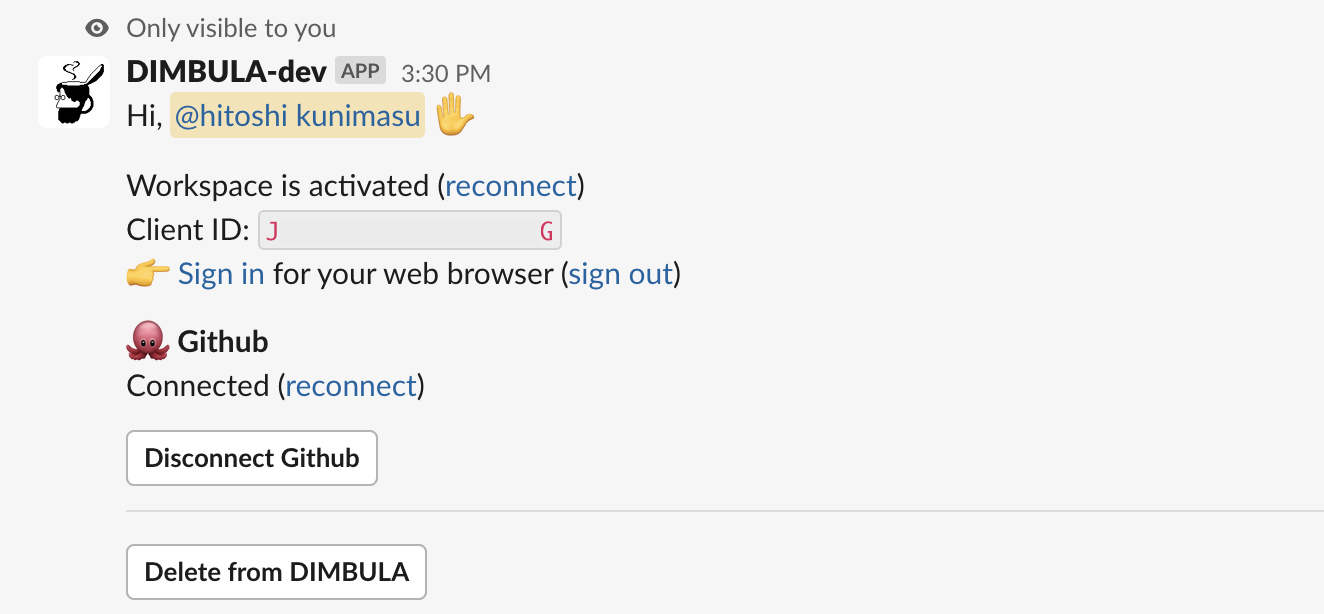
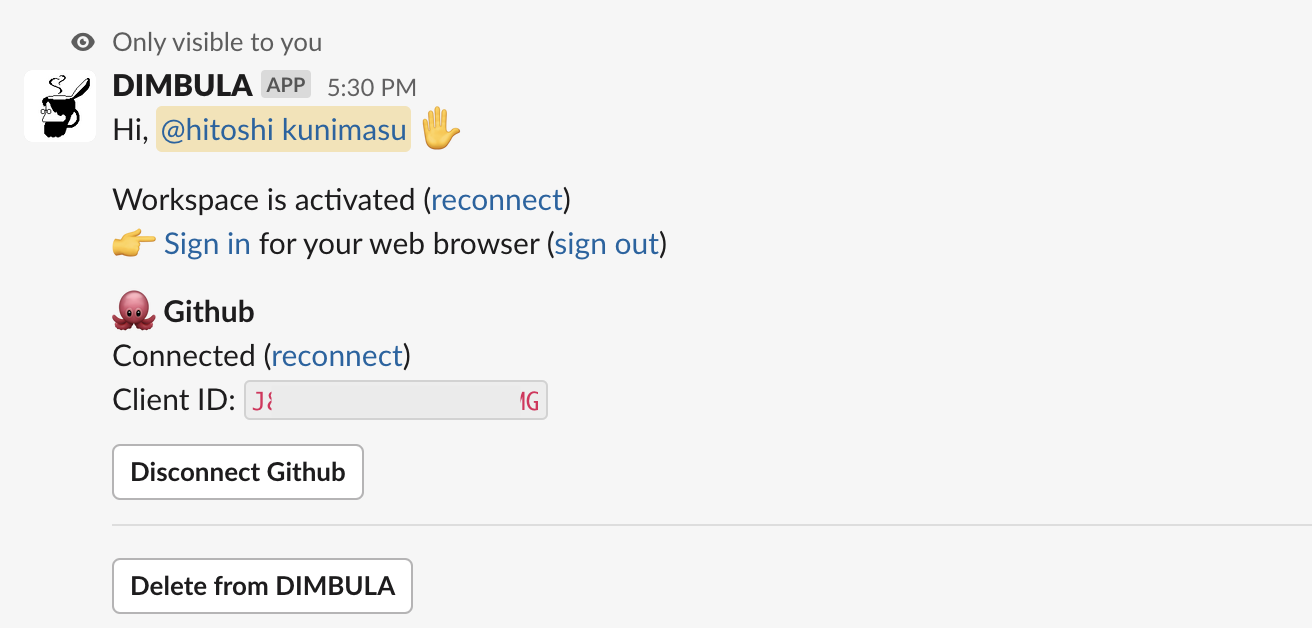
Github subscribeに関して仕様変更したのでその修正etc

diff --git a/pages/ja/docs/receive_notification.md b/pages/ja/docs/receive_notification.md
@@ -1,28 +1,14 @@
 # 通知を受け取る
 DIMBULA teaBreakでは、E2Eテストの終了時や、Github Checks更新時に、講読されたSlackチャンネルに通知してお知らせします。
 
-通知を受け取る設定をしていなくても、DIMBULA teaBreakは機能しますが、テストが終了したことに気付かないといったことが起きますので、ここでは講読する方法を紹介します。
+通知を受け取る設定をしていなくても、DIMBULA teaBreakは機能しますが、テストが終了したことに気付かないといったことが起きますので、登録しておく方が良いでしょう。
 
-# Githubアカウントを接続する
-DIMBULA teaBreakのE2Eテスト終了時に受け取りたい対象リポジトリと、通知先となるSlackチャンネルを登録するコマンドは、`/dimbula subscribe`で行います。
+# セットアップ
+通知を受信したいチャンネルで、`/dimbula subscribe <GithubリポジトリURL>`を入力して、通知を受けたいDIMBULA teaBreakの対象リポジトリを指定します。
+![img.png](../../../assets/image/dimbula_subscribe_url.png)
 
-対象リポジトリを選択肢として表示するために、`/dimbula me`からGithubのアカウント接続を先に行う必要があります。Githubの下にある`connect`もしくは一度接続済みなら`reconnect`をクリックして、リンクをWebブラウザで表示します。
-![dimbula_me_not_github.png](../../../assets/image/dimbula_me_not_github.png)
-
-Webブラウザに以下のような表示がされれば、接続完了です。
-![dimbula_me_not_github.png](../../../assets/image/github_connected.png)
-
-# 講読する
-通知を受信したいチャンネルで、`/dimbula subscribe`を送信すると、モーダル表示で講読したいリポジトリが選択肢として現れます。
-
-接続したGithubアカウントの個人と所属する組織に、DIMBULAのGithubアプリがインストールされていれば、以下のように複数のリポジトリが候補になります。一度の検索では100件が最大の候補数になりますので、もし候補に現れてないリポジトリを選択したい場合は、`/dimbula subscribe <リポジトリのURL>`もしくは `/dimbula subscribe <リポジトリ所有者> <リポジトリ名>`で送信すると、対象を絞って登録できます。
-![dimbula_me_not_github.png](../../../assets/image/dimbula_subscribe_modal.png)
-
-以下を送信すると、1つに絞れた状態でモーダルを表示することが出来ます。
-* `/dimbula-dev subscribe https://github.com/DIMBULA-dev/dimbula.github.io` 
-* `/dimbula-dev subscribe DIMBULA-dev dimbula.github.io`
-
-![dimbula_me_not_github.png](../../../assets/image/dimbula_subscribe_modal2.png)
+設定が完了すると、以下のようなメッセージがポストされます。
+![img.png](../../../assets/image/dimbula_subscribed.png)
 
 # 通知のイメージ
 DIMBULA teaBreakで指定の言語、端末やOSバージョンの組み合わせで全てのE2Eテストが終えたときやChecksが更新されたときに、以下のような内容でポストされます。

diff --git a/pages/ja/docs/connect_github.md b/pages/ja/docs/connect_github.md
@@ -1,0 +1,18 @@
+# Githubアカウントを接続する
+DIMBULA teaBreakを利用するためには、Githubアカウントの接続が事前に必要です。
+
+接続するGithubアカウントは、DIMBULAを利用するSlackワークスペースの代表者1アカウントのみになりますので、利用者各個人がGithubアカウントの接続を行う必要はありません。
+
+# セットアップ
+`/dimbula me`を送信して、現在のGithubの接続状況確認します。
+
+Githubアカウントが未接続の場合、以下のようにGithubのところが`Not connected`と表示されますので、隣の`connect`リンクをブラウザで表示して接続します。
+![img.png](../../../assets/image/dimbula_me_not_github.png)
+
+接続が完了すると、ブラウザに接続出来たことが表示されます。
+![img.png](../../../assets/image/github_connected.png)
+
+改めて、`/dimbula me`を送信すると、以下のようにGithubが`Connected`であることは表示されます。
+![img.png](../../../assets/image/dimbula_me_github.png)
+
+接続を解除したい場合は、`Disconnect Github`ボタンを押下してください。
